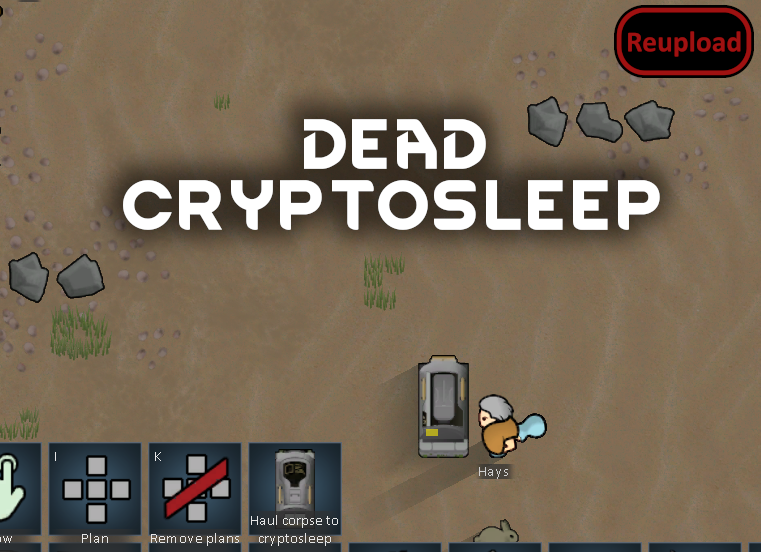
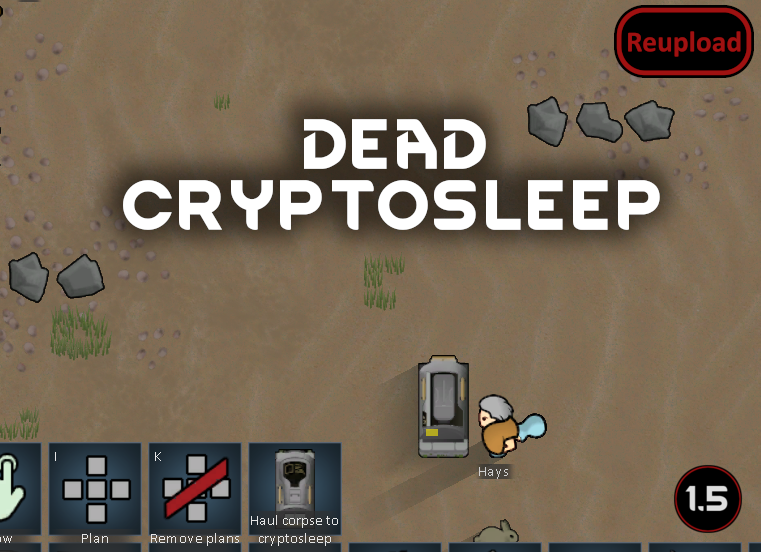
Mod updated for 1.5 and passed autotests

Changed region(s): [[0.8765, 0.8315, 0.9974, 0.9855]]

diff --git a/README.md b/README.md
@@ -35,12 +35,13 @@ We want to support as many languages as possible. If you would like to submit tr
 
 -  See if the the error persists if you just have this mod and its requirements active.
 -  If not, try adding your other mods until it happens again.
--  Post your error-log using https://steamcommunity.com/workshop/filedetails/?id=818773962]HugsLib and command Ctrl+F12
+-  Post your error-log using https://steamcommunity.com/workshop/filedetails/?id=818773962]HugsLib or the standalone https://steamcommunity.com/sharedfiles/filedetails/?id=2873415404]Uploader and command Ctrl+F12
 -  For best support, please use the Discord-channel for error-reporting.
 -  Do not report errors by making a discussion-thread, I get no notification of that.
 -  If you have the solution for a problem, please post it to the GitHub repository.
+-  Use https://github.com/RimSort/RimSort/releases/latest]RimSort to sort your mods
 
 
 
+https://steamcommunity.com/sharedfiles/filedetails/changelog/2388868790]![Image](https://img.shields.io/github/v/release/emipa606/DeadCryptosleep?label=latest%20version&style=plastic&color=9f1111&labelColor=black)
 
-https://steamcommunity.com/sharedfiles/filedetails/changelog/2388868790]Last updated 2023-05-06
